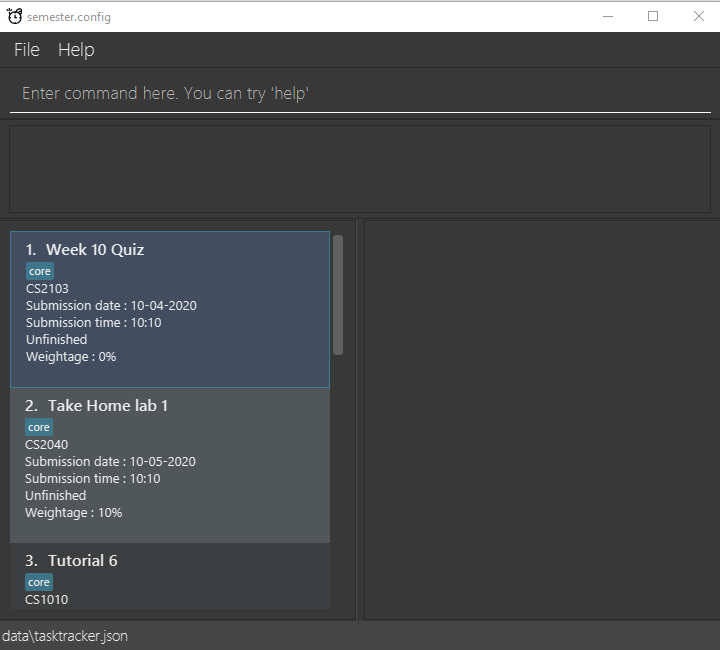
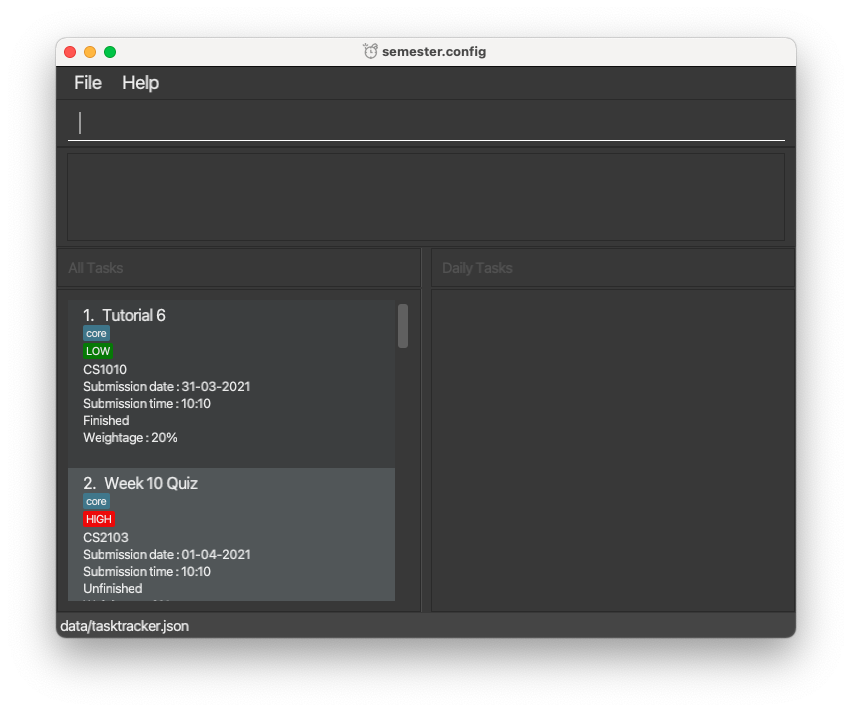
Update UG

diff --git a/docs/UserGuide.md b/docs/UserGuide.md
@@ -30,11 +30,11 @@ your contact management tasks done faster than traditional GUI apps.
    open the help window.<br>
    Some example commands you can try:
 
-    * **`list`** : Lists all deadlines.
+    * **`list`** : Lists all tasks.
 
-    * **`delete`**`3` : Deletes the 3rd deadline shown in the current list.
+    * **`delete`**`3` : Deletes the 3rd task shown in the current list.
 
-    * **`clear`** : Deletes all deadlines.
+    * **`clear`** : Deletes all tasks.
 
     * **`exit`** : Exits the app.
 
@@ -49,104 +49,62 @@ your contact management tasks done faster than traditional GUI apps.
 **:information_source: Notes about the command format:**<br>
 
 * Words in `UPPER_CASE` are the parameters to be supplied by the user.<br>
-  e.g. in `add n/NAME`, `NAME` is a parameter which can be used as `add n/John Doe`.
+  e.g. in `add n/NAME`, `NAME` is a parameter which can be used as `add n/CS2103 Assignment`.
 
 * Items in square brackets are optional.<br>
-  e.g `n/NAME [t/TAG]` can be used as `n/John Doe t/friend` or as `n/John Doe`.
+  e.g `n/NAME [pt/TAG]` can be used as `n/CS2103 Assignment pt/core` or as `n/CS2103 Assignment`.
 
-* Items with `…` after them can be used multiple times including zero times.<br>
-  e.g. `[t/TAG]…` can be used as ` ` (i.e. 0 times), `t/friend`, `t/friend t/family` etc.
+* Items with `…` after them can be used multiple times including zero times.<br>
+  e.g. `[pt/TAG]…` can be used as  `(i.e. 0 times)` OR `pt/core`OR `pt/difficult pt/SUable` etc.
 
 * Parameters can be in any order.<br>
-  e.g. if the command specifies `n/NAME p/PHONE_NUMBER`, `p/PHONE_NUMBER n/NAME` is also acceptable.
+  e.g. if the command specifies `n/TASK_NAME mc/MODULE_CODE`, `mc/MODULE_CODE n/TASK_NAME` is also acceptable.
 
 * If a parameter is expected only once in the command but you specified it multiple times, only the last occurrence of
   the parameter will be taken.<br>
-  e.g. if you specify `p/12341234 p/56785678`, only `p/56785678` will be taken.
+  e.g. if you specify `mc/CS2103 mc/CS2105`, only `mc/CS2105` will be taken.
 
-* Extraneous parameters for commands that do not take in parameters (such as `instructions`, `list`, `exit` and `clear`)
+* Extraneous parameters for commands that do not take in parameters (such as `list`, `exit` and `clear`)
   will be ignored.<br>
-  e.g. if the command specifies `instructions 123`, it will be interpreted as `instructions`.
+  e.g. if the command specifies `list 123`, it will be interpreted as `list`.
 
 </div>
 
-|      |      |
-| ---- | ---- |
-|      |      |
-|      |      |
-|      |      |
+### Prefixes for `add` and `edit` commands
 
-2. ### Priority tag: *ptag/PriorityLevel*
+This table outlines all the available prefixes that can be used for the `add` and `edit` commands.
 
-  * Format: `edit 3 ptag/HIGH`
-    1. Will assign a priority of `HIGH` to the 3rd task on the list.
-    2. Ranking of priority levels: HIGH > MEDIUM > LOW
-    3. Index inserted must be positive, and
-    4. Index must be available on the list, else an error will be thrown.
-    5. Priority tag must be either HIGH, MEDIUM or LOW, else an error will be thrown.
-    6. Example: `list` to show all tasks on the list followed by `edit 2 ptag/LOW`  to assign a priority tag of `LOW` to the 2nd task on the list.
+| Prefix   | Name          | Applicable Commands | Example Usage        |
+| -------- | ------------- | ------------------- | -------------------- |
+| `n/`     | Task Name     | `add`, `edit`       | `n/Assignment 2`     |
+| `mc/`    | Module Code   | `add`, `edit`       | `mc/CS2103`          |
+| `d/`     | Deadline Date | `add`, `edit`       | `d/10-10-2021`       |
+| `t/`     | Deadline Time | `add`, `edit`       | `t/18:00`            |
+| `w/`     | Weightage     | `add`, `edit`       | `w/25%`              |
+| `pt/`    | Tags          | `add`, `edit`       | `pt/core mod`        |
+| `ptag/`  | Priority Tag  | `add`, `edit`       | `ptag/HIGH`          |
+| `notes/` | Notes         | `edit`              | `notes/Hello World!` |
 
-3. ### Task name: name *n/*
+### Add a task: `add`
 
-  * Format: n/ {name}
-    1. Sets the name of a task
-    2. Example: `n/Software Engineering Finals`. Sets the name of the task to “Software Engineering Finals”
+Add a task to the list.
 
-
-4. ### Module code: *mc/*
-
-  * Format: mc/ {module code}
-    1. Sets the module code of a task
-    2. Module code must be a CS module code
-    3. Example: `mc/CS2103`. Sets the module code of the task to "CS2103"
-
-### See the list of instructions: `instructions`
-
-List down all possible commands in semester.config.
-
-Format: `instructions`
-
-### Add a deadline: `add`
-
-Add a deadline to the list
-
-Format: `add mc/MODULE_CODE n/TASK_NAME d/DATE t/TIME w/WEIGHTAGE [r/REMARK] [pt/TAG] [ptag/PRIORITY TAG]`
+Format: `add mc/MODULE_CODE n/TASK_NAME d/DEADLINE_DATE t/DEADLINE_TIME w/WEIGHTAGE [pt/TAGS] [ptag/PRIORITY_TAG]`
 
 Example:
 
-* `add mc/CS3243 n/Project 1 d/15-04-2021 t/10:00 w/10%` will add this deadline to the list
+* `add mc/CS3243 n/Project 1 d/15-04-2021 t/10:00 w/10%` will add this task to the list
 * Priority tag of a task will be set to `LOW` by default if there are not inputs
 * Note that the order of inputs does not matter, for e.g. there is no difference between entering `add mc/CS3243 n/Project 1` and `add n/Project 1 mc/CS3243` .
 
-### Clear Application : `clear`
+### Edit a task: `edit`
 
-Clears all deadlines from the application
+Edits an existing task in the application
 
-Format: `clear`
+Format: `edit INDEX [n/TASK_NAME] [mc/MODULE_CODE] [d/DEADLINE_DATE]
+[t/DEADLINE_TIME] [notes/NOTES] [pt/TAG] [ptag/PRIORITY_TAG]`
 
-### Delete a deadline: `delete`
-
-Deletes the specified deadline from the list
-
-Format: `delete INDEX`
-
-* Index to be inserted must be positive, and
-* Index must be available on the list else an error will be thrown
-
-Example:
-
-* `delete 3` will delete the 3rd deadline on the list
-* Using `list` to show all deadlines, the user wants to delete the 2nd deadline. User use command `delete 2` to delete
-  the 2nd deadline from the list.
-
-### Edit a deadline: `edit`
-
-Edits an existing deadline in the application
-
-Format: `edit INDEX [n/TASK NAME] [mc/MODULE CODE] [d/DEADLINE DATE]
-[t/DEADLINE TIME] [r/REMARK] [pt/TAG] [ptag/PRIORITY TAG]`
-
-* Edits the deadline at the specified index
+* Edits the task at the specified index
 * The index must be a positive integer 1,2,3,...
 * The index must be on the list else an error will be thrown
 * At least one of the optional fields must be provided
@@ -155,21 +113,42 @@ Format: `edit INDEX [n/TASK NAME] [mc/MODULE CODE] [d/DEADLINE DATE]
 
 Examples:
 
-* `edit 1 n/Lecture Quiz mc/CS2103` edits the task name and module code of the deadline at index 1 to be “Lecture Quiz”
+* `edit 1 n/Lecture Quiz mc/CS2103` edits the task name and module code of the task at index 1 to be “Lecture Quiz”
   and “CS2103” respectively.
-* `edit 2 d/15-04-2021 r/Open Book` edits the date and notes of the deadline at index 2 to be “15 April 2021” and “Open
+* `edit 2 d/15-04-2021 notes/Open Book` edits the date and notes of the task at index 2 to be “15 April 2021” and “Open
   Book” respectively.
-  `edit 3 n/Finals ptag/HIGH` edits the task name and priority tag of the task at index 3 to be "Finals" and "HIGH" respectively
+* `edit 3 n/Finals ptag/HIGH` edits the task name and priority tag of the task at index 3 to be "Finals" and "HIGH" respectively.
 
-### Locating deadlines by moduleName: `find`
+### Clear Application : `clear`
 
-Find deadlines whose taskName contains any of the given keywords.
+Clears all tasks from the application
+
+Format: `clear`
+
+### Delete a task: `delete`
+
+Deletes the task at the specified index.
+
+Format: `delete INDEX`
+
+* Index to be inserted must be positive, and
+* Index must be available on the list else an error will be thrown
+
+Example:
+
+* `delete 3` will delete the 3rd task on the list
+* Using `list` to show all tasks, the user wants to delete the 2nd task. User use command `delete 2` to delete
+  the 2nd task from the list.
+
+### Locating tasks by taskName: `find`
+
+Find tasks whose taskName contains any of the given keywords.
 
 Format: `find KEYWORD...`
 
 * The search is case-insensitive. e.g “Assignment” will match “assignment”
-* The order of the keywords does not matter. e.g. “programming modular” will “match modular programming”
-* Only the deadline moduleName is searched.
+* The order of the keywords does not matter. e.g. “programming modular” will match "modular programming”
+* Only the task's taskName is searched.
 * Only full words will be matched e.g. “Java” will not match “Javascript”
 * Persons matching at least one keyword will be returned (i.e. OR search). e.g. “SQL Python” will return “SQL Quiz,
   Python Assignment”
@@ -179,15 +158,15 @@ Examples:
 * `find C++` will return `C++ project` and `C++ graded quiz`
 * `find assignment` exam will return `Final Assignment, Midterm exam`
 
-### List all deadlines: `list`
+### List all tasks: `list`
 
-List out all deadlines (might be unsorted)
+List out all tasks (might be unsorted)
 
 Format: `list`
 
 ### Toggle the status of a task: `done`
 
-Toggle the status of a deadline from finished to unfinished or from unfinished to finished.
+Toggle the status of a task from finished to unfinished or from unfinished to finished.
 
 Format: `done INDEX`
 
@@ -201,38 +180,24 @@ Example:
   to be finished again.
 * Task 1 hasn't finished. `done 1` will mark task 1 to be finished.
 
-### Sort deadlines: `sort`
+### Sort tasks: `sort`
 
-Sorts deadlines according to the specified parameter.
+Sorts tasks according to the specified parameter.
 
-Format: sort `[dateTime] [taskName] [moduleCode] [priorityTag] [weightage]`
+Format: `sort [dateTime OR taskName OR moduleCode OR priorityTag OR weightage]`
 
-* Deadlines can be sorted according to these three parameters: date & time `dateTime`, module code `moduleCode`,
+* Tasks can be sorted according to these five parameters: date & time `dateTime`, module code `moduleCode`,
   priority tag `priorityTag`, weightage `weightage`, and task name `taskName`.
-* If no arguments given, an error will be thrown.
-* For `date & time`, the deadlines will be sorted in ascending order, with the earliest deadline placed first.
-* For `module code`, the deadlines will be sorted according to the lexicographical ordering of the module codes.
-* For `priority tag`, the deadlines will be sorted according to this order: HIGH > MEDIUM > LOW. Deadlines with a high
-  priority will then be shown at the top of the list.
-* For `weightage`, the deadlines will be sorted in ascending order, with the lowest weightage deadline placed first.
-* For `taskName`, the deadlines will be sorted according to the lexicographical ordering of the task name.
-
-### PriorityTag: `ptag/`
-
-Every task will be given a default priorityTag of `LOW`
-
-#### Sorting based on priorityTag (See `sorting`)
-
-* User is able to sort tasks based on priority tag: `LOW`, `MEDIUM` and `HIGH`
-
-#### Edit priorityTag (See `edit`)
-
-* User is able to edit status of priorityTag using the `edit` command
-* User is able to sort the tasks based on `LOW`, `MEDIUM` and `HIGH`
+* If no arguments are given, an error will be thrown.
+* For date & time, the tasks will be sorted in chronological order, with the earliest deadline placed first.
+* For module code, the tasks will be sorted according to the lexicographical ordering of the module codes.
+* For priority tag, the tasks will be sorted according to this order: HIGH > MEDIUM > LOW. Tasks with higher priority will then be shown at the top of the list.
+* For weightage, the tasks will be sorted in a descending order, starting from the heaviest weightage.
+* For task name, the tasks will be sorted according to the lexicographical order of the task names.
 
 ### Clear Application: `clear`
 
-Clears all deadlines from the application.
+Clears all tasks from the application.
 
 Format: `clear`
 
@@ -240,16 +205,16 @@ Format: `clear`
 
 Show tasks that are due within the days/weeks specified by the user (if any).
 
-Format: `dueIn [start/START_DATE] [end/END_DATE]`
+Format: `dueIn [day/NUMBER_OF_DAYS OR week/NUMBER_OF_WEEKS]`
 
-* If no parameters given, tasks shown will be deadlines that will be due by **next week**.
+* If no parameters given, tasks shown will be tasks that will be due by **next week**.
 * `NUMBER_OF_DAYS` & `NUMBER_OF_WEEKS` must be a positive integer
-* If both `day/` & `week/` given, the `NUMBER_OF_DAYS` will be used.
-* Tasks shown are tasks with deadline starting from today's date.
+* If both `day/` & `week/` are given, an error will be thrown.
+* Tasks shown are tasks with deadlines starting from today's date.
 
 Example:
 
-* Task 1's deadline is 10 March 2020. Task 2's deadline is 11 March 2020. Today is 3 March 2020. `dueIn`, `dueIn day/7`,
+* Task 1's task is 10 March 2020. Task 2's task is 11 March 2020. Today is 3 March 2020. `dueIn`, `dueIn day/7`,
   and `dueIn week/1` will lists task 1 on the list.
 
 ### Add a task to the daily task list: `doToday`
@@ -307,18 +272,16 @@ the data of your previous `semester.config` home folder.
 
 Action | Format, Examples
 --------|------------------
-**instructions** | `instructions`
-**add** | `add mc/MODULE_CODE n/TASK_NAME d/DATE t/TIME w/WEIGHTAGE [pt/TAGS]` <br> e.g, `add mc/CS1010 n/Practical Exam d/12-12-2020 t/10:10 w/10` 
-**delete** | `delete INDEX` <br> e.g, `delete 3` `delete 1`
+**add** | `add mc/MODULE_CODE n/TASK_NAME d/DEADLINE_DATE t/DEADLINE_TIME w/WEIGHTAGE [pt/TAGS] [ptag/PRIORITY_TAG]` <br> e.g, `add mc/CS1010 n/Practical Exam d/12-12-2020 t/10:10 w/10%` 
+ **delete**  | `delete INDEX` <br> e.g, `delete 3` `delete 1`
 **find** | `find KEYWORD ...` <br> e.g, `find Database` `find Software`
 **list** | `list`
 **done** | `done INDEX` <br> e.g, `done 1`
-**sort** | `sort [dateTime] [taskName] [moduleCode] [priorityTag] [weightage]` <br> e.g, `sort dateTime` `sort moduleCode`
-**notes** | `notes INDEX n/NOTES` <br> e.g, `notes 4 n/Assignment must be handwritten`
-**edit** | `edit INDEX [n/TASK NAME] [mn/MODULE NAME] [mc/MODULE CODE] [d/ DEADLINE DATE] [t/DEADLINE TIME] [n/NOTES] [ptag/PRIORITY]` <br> e.g, `edit 2 tn/Assignment 7` 
+**sort** | `sort [dateTime OR taskName OR moduleCode OR priorityTag OR weightage]` <br> e.g, `sort dateTime` `sort moduleCode` 
+**notes** | `notes INDEX notes/NOTES` <br> e.g, `notes 4 notes/Assignment must be handwritten` 
+**edit** | `edit INDEX [n/TASK NAME] [mc/MODULE CODE] [d/DEADLINE_DATE] [t/DEADLINE_TIME] [notes/NOTES] [ptag/PRIORITY_TAG]` <br> e.g, `edit 2 n/Assignment 7` 
 **clear** |`clear`
-**ptag** | `edit INDEX ptag[/LOW] [/MEDIUM] [/HIGH]` <br> e.g, `edit 3 ptag/MEDIUM`
-**dueIn** | `dueIn [day/NUMBER_OF_DAYS] [week/NUMBER_OF_WEEKS]` <br> e.g, `dueIn`  `dueIn day/10` `dueIn week/2`
+**dueIn** | `dueIn [day/NUMBER_OF_DAYS OR week/NUMBER_OF_WEEKS]` <br> e.g, `dueIn`  `dueIn day/10` `dueIn week/2` 
 **doToday** | `doToday [-a OR -r] INDEX` <br>e.g, `doToday -a 2` `doToday -r 2` 
 **undo** | `undo`
 **redo** | `redo`

diff --git a/README.md b/README.md
@@ -121,7 +121,7 @@
   * Format: `dueIn [day/NUMBER_OF_DAYS OR week/NUMBER_OF_WEEKS]`
     1. If no parameters given, tasks shown will be deadlines that will be due by next week.
     2. `NUMBER_OF_DAYS` & `NUMBER_OF_WEEKS` must be a positive integer.
-    3. If both `day/` & `week/` given, an error will be thrown.
+    3. If both `day/` & `week/` are given, an error will be thrown.
     4. Tasks shown are tasks with deadlines starting from today's date.
     
     
